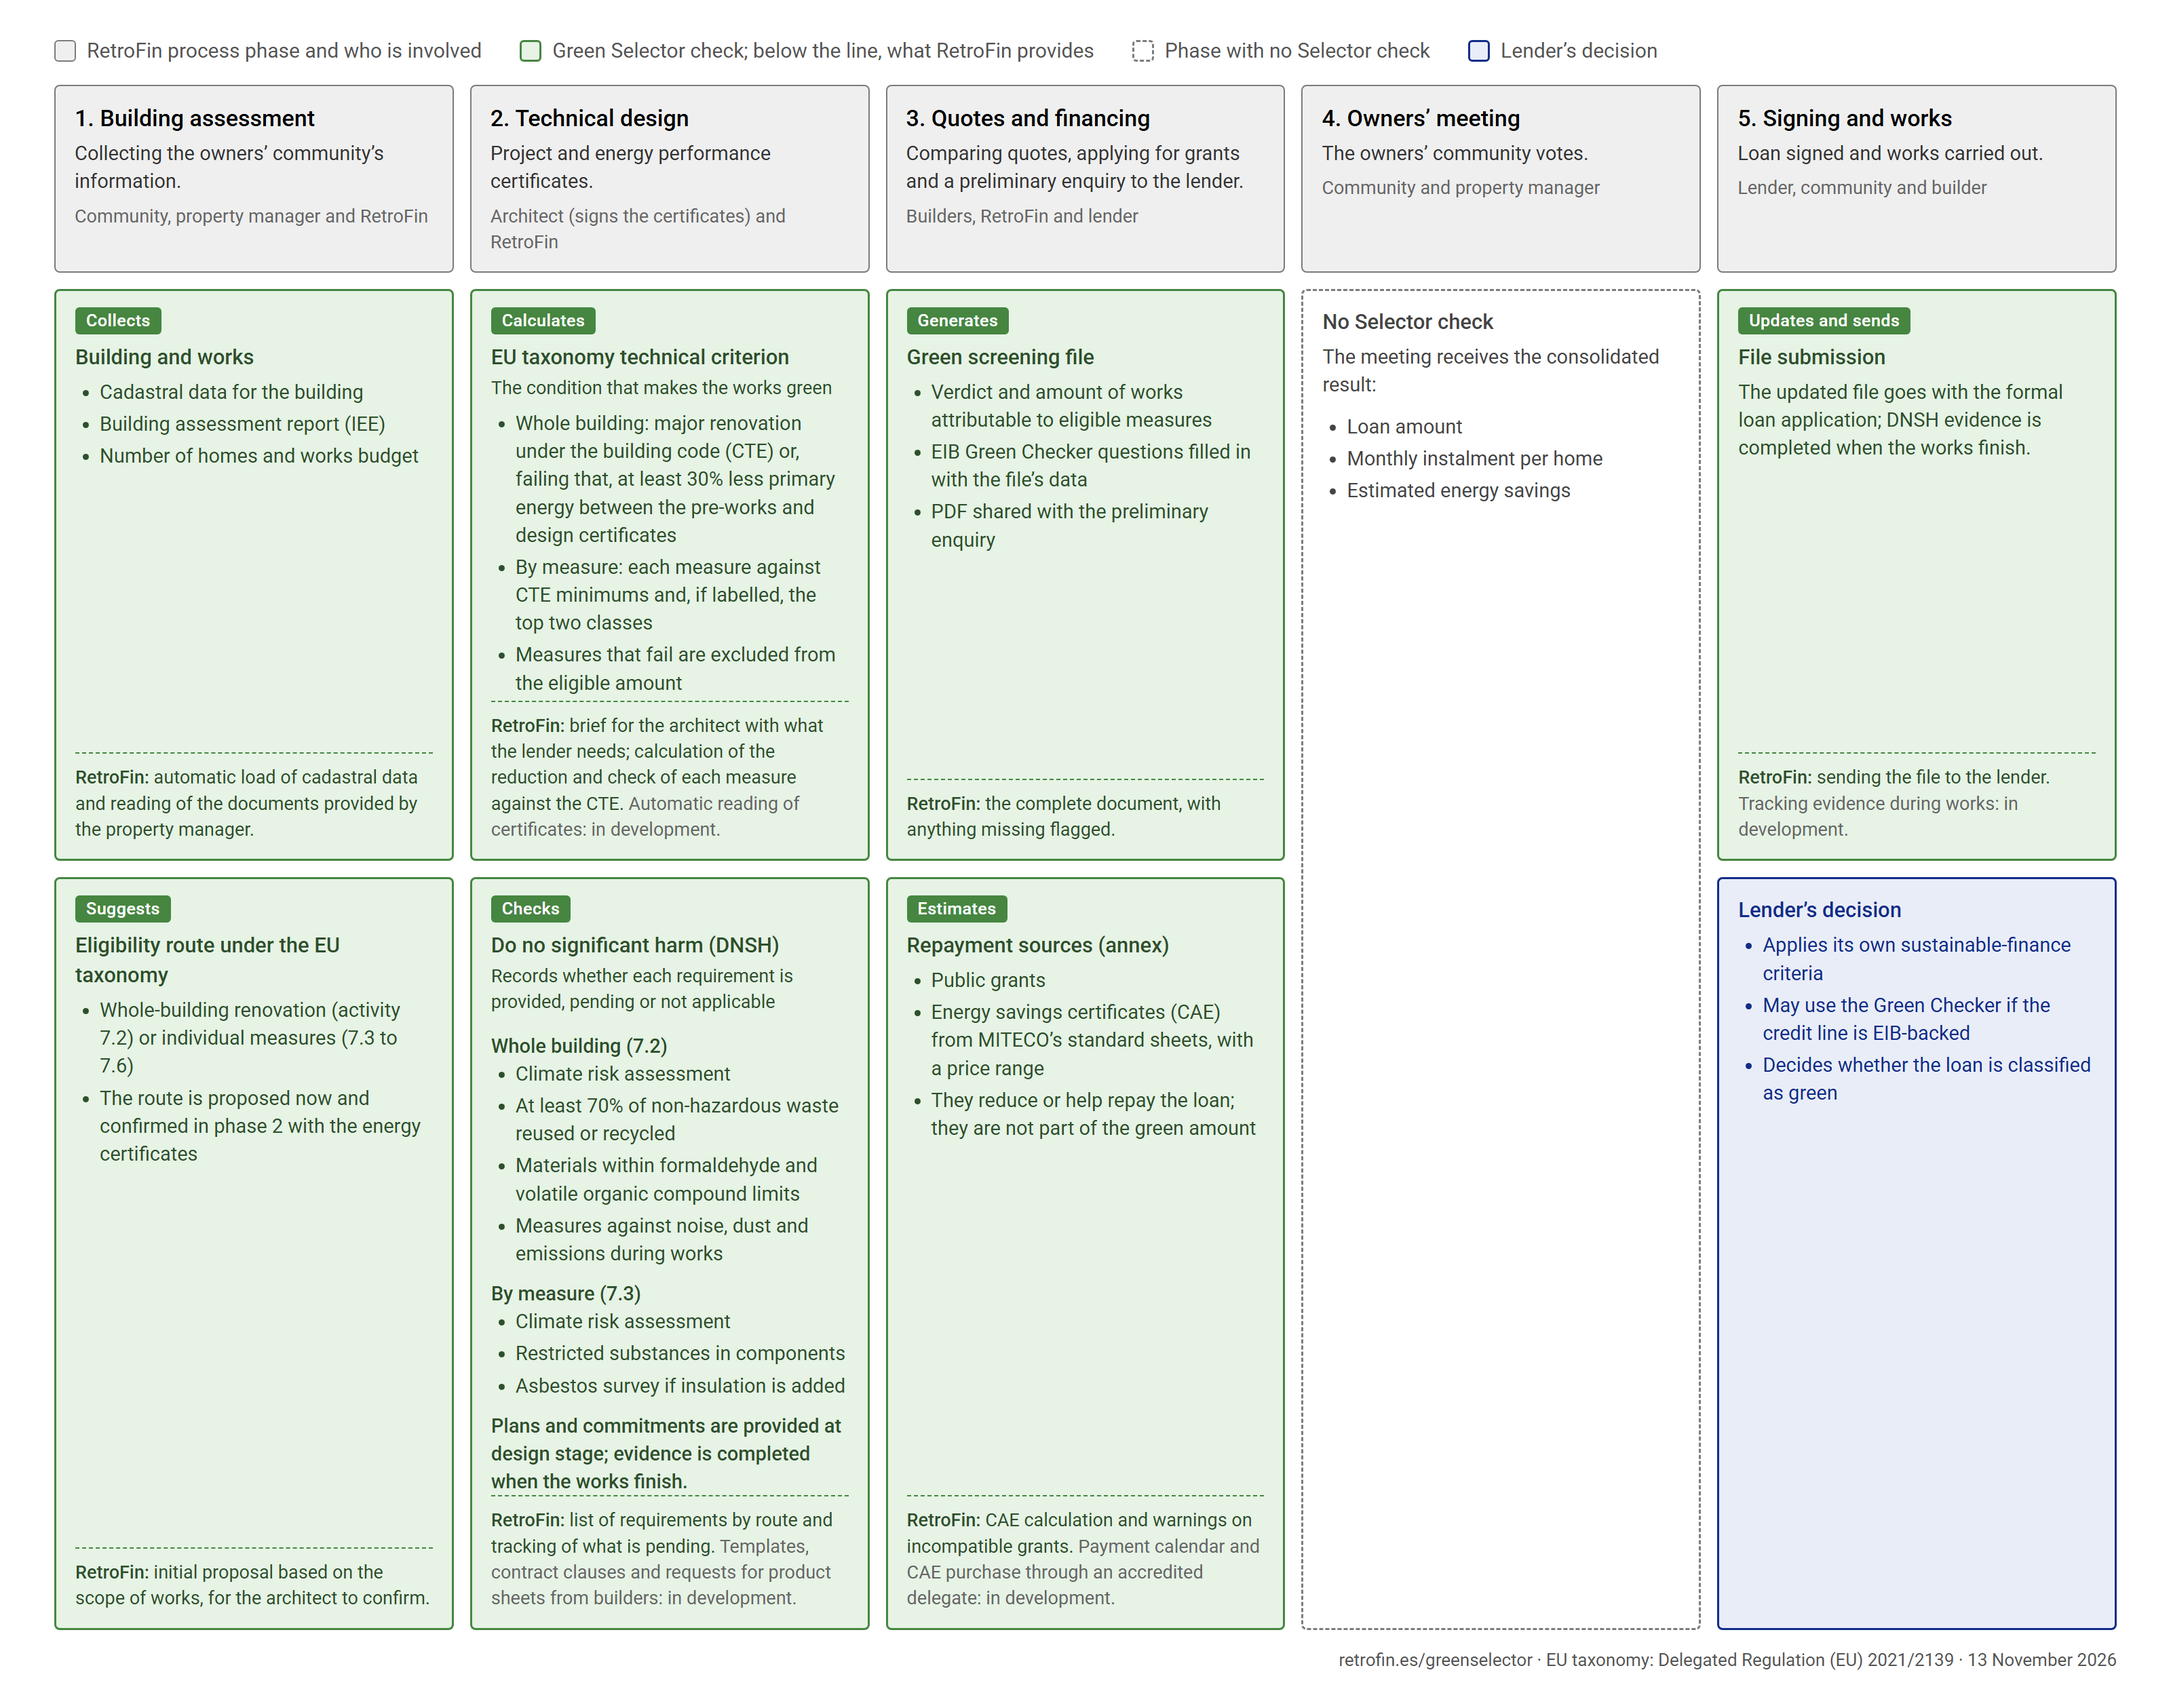
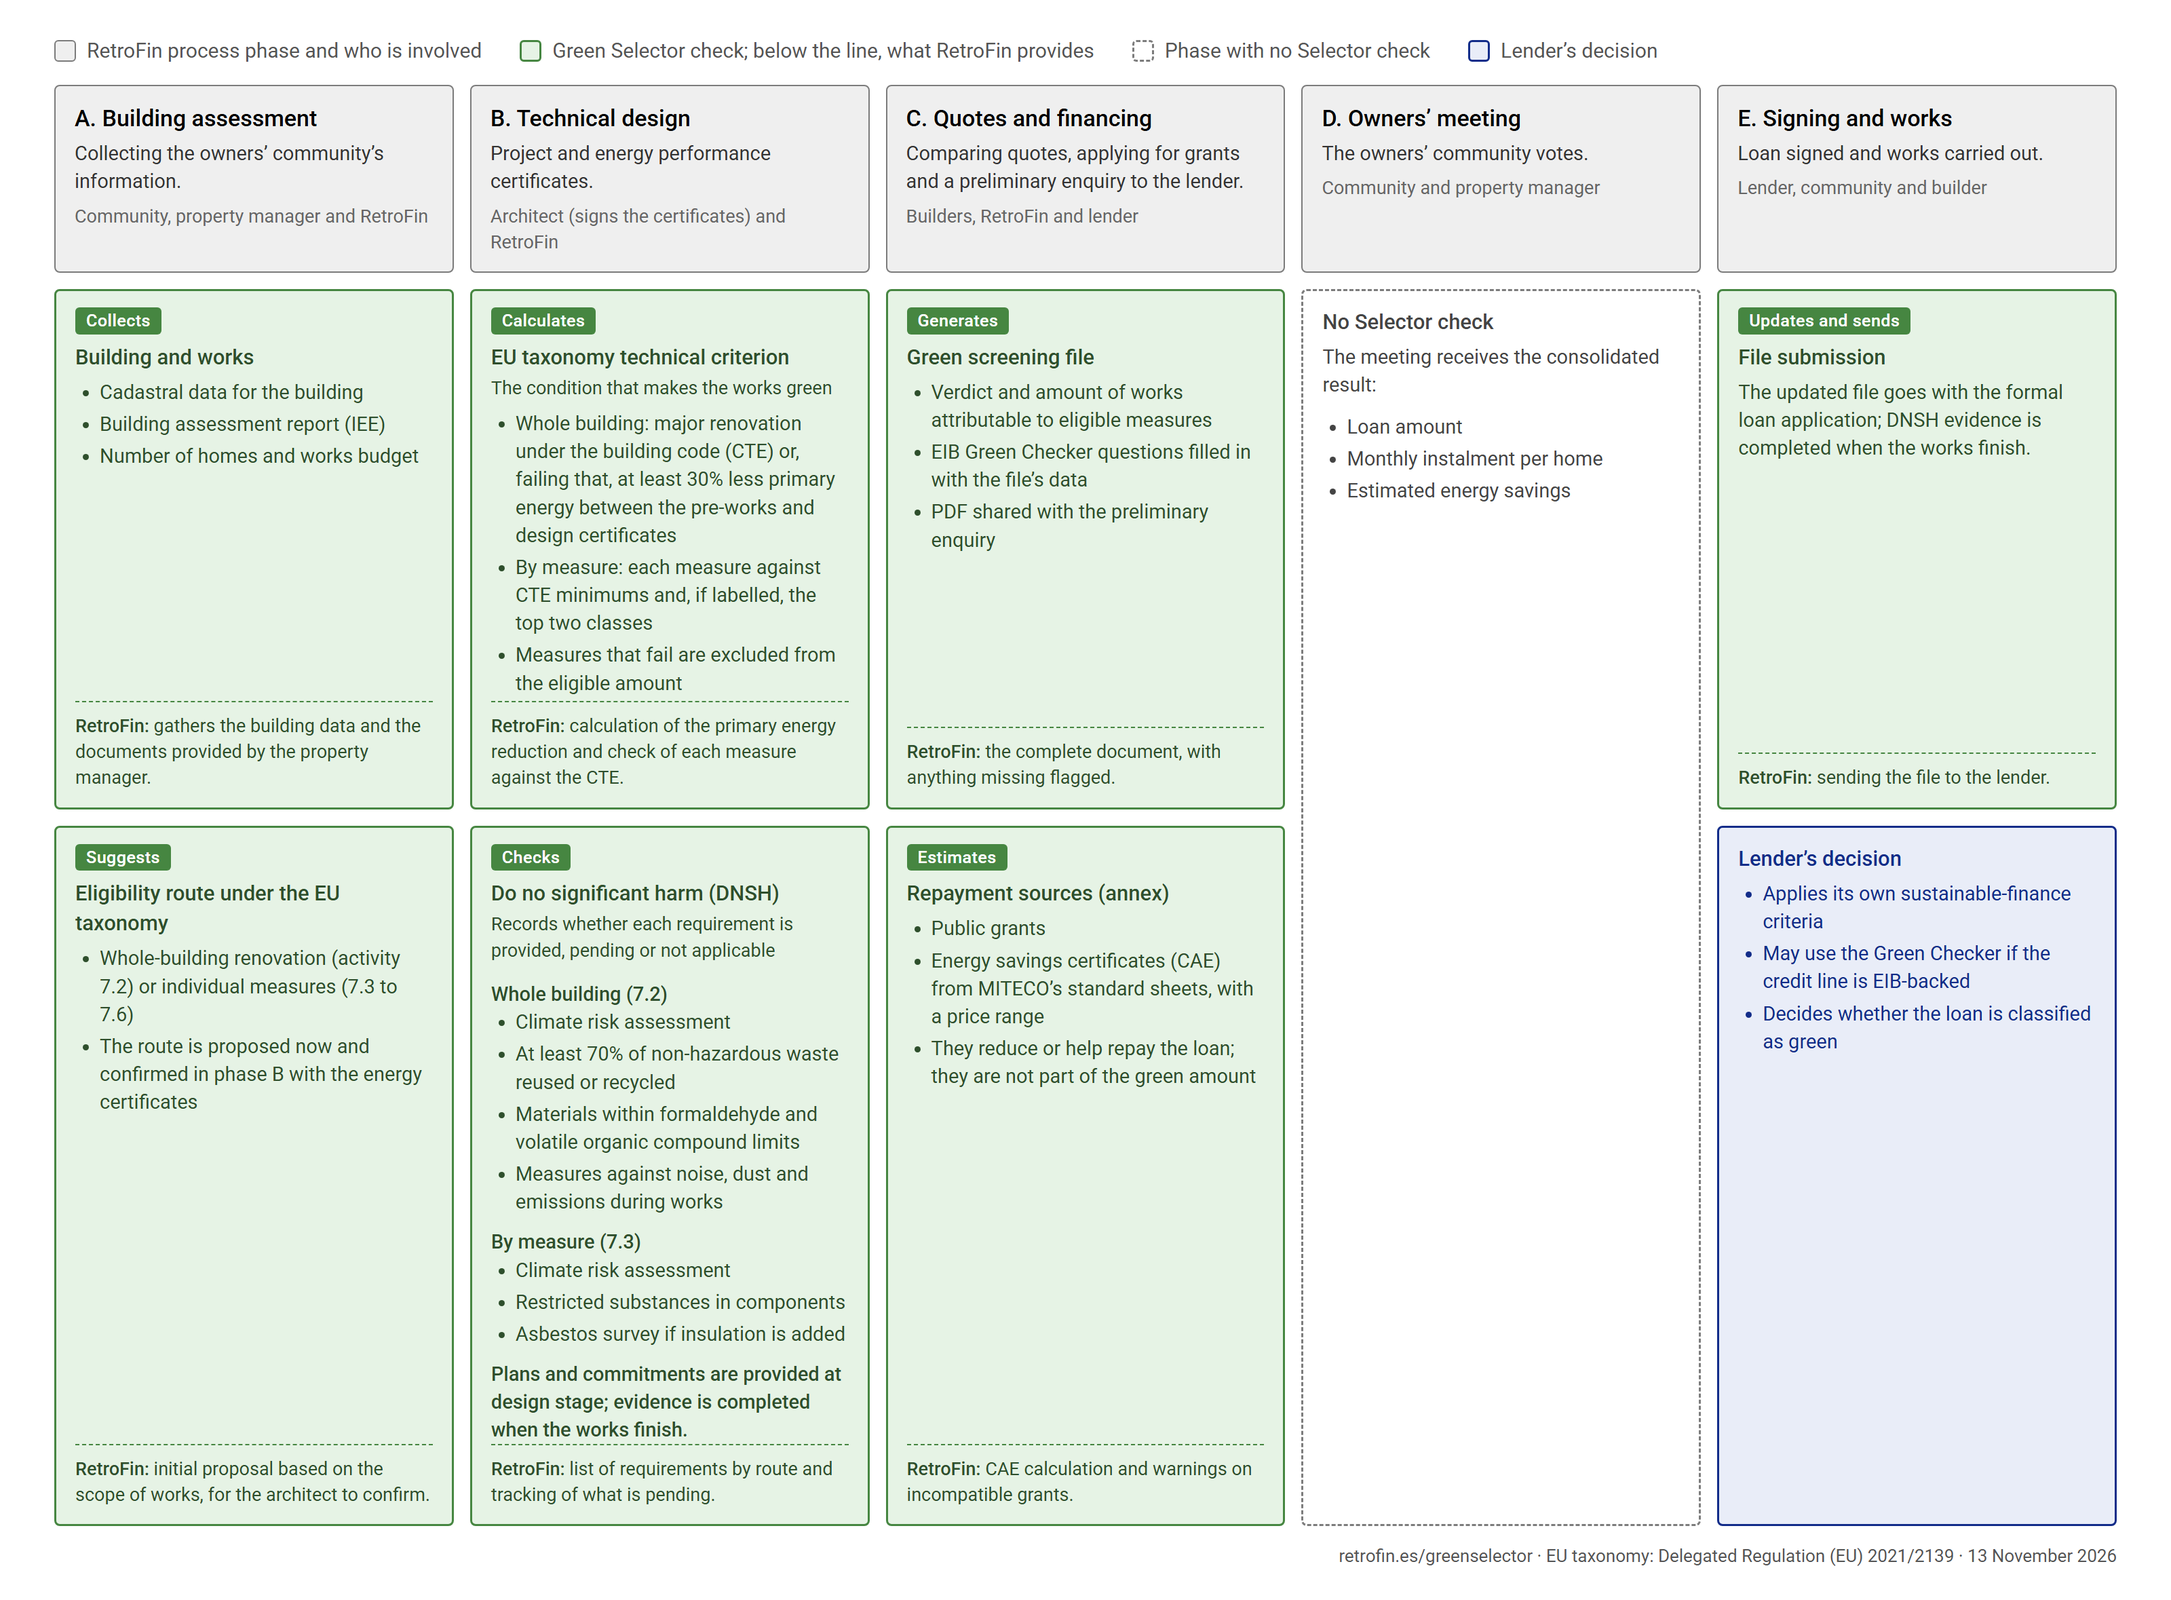
Green Selector landing: phases lettered A–E and only features that work today
Phases renamed A to E so they don't clash with the Selector's six numbered steps;
"in development" items and the architect brief removed from the RetroFin lines.

diff --git a/greenselector/index.html b/greenselector/index.html
@@ -199,8 +199,8 @@ html[lang="es"] .alert::before{content:"Nota: "}
       <button class="btn btn-primary" type="button" id="b-start" data-i="start">Empezar con el caso de Usera 51</button>
     </div>
     <p class="land-p" data-i="land_p"></p>
-    <img class="tree-en" src="phases-en.png" width="1600" height="1256" alt="The Green Selector across the five phases of the RetroFin process: what it collects, calculates, checks and generates in each phase, what RetroFin provides, and the lender's decision">
-    <img class="tree-es" src="phases-es.png" width="1600" height="1319" alt="El Selector Verde en las cinco fases del proceso RetroFin: qué recopila, calcula, comprueba y genera en cada fase, qué aporta RetroFin y la decisión de la entidad">
+    <img class="tree-en" src="phases-en.png" width="1600" height="1179" alt="The Green Selector across the five phases of the RetroFin process: what it collects, calculates, checks and generates in each phase, what RetroFin provides, and the lender's decision">
+    <img class="tree-es" src="phases-es.png" width="1600" height="1243" alt="El Selector Verde en las cinco fases del proceso RetroFin: qué recopila, calcula, comprueba y genera en cada fase, qué aporta RetroFin y la decisión de la entidad">
   </section>
 
   <div class="layout">
